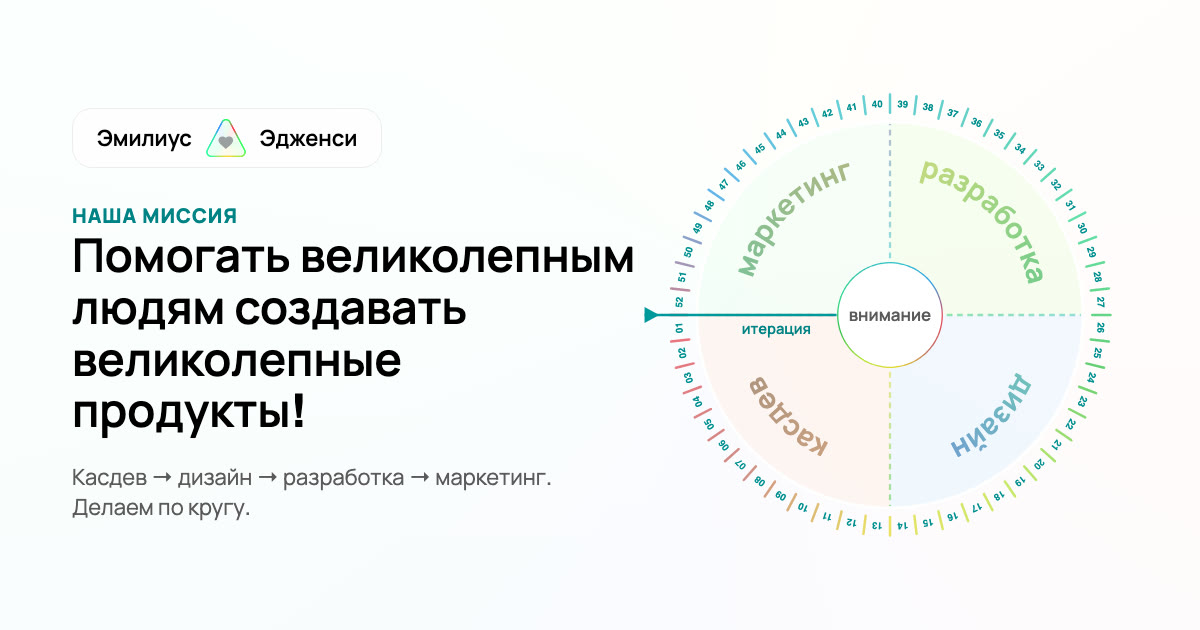
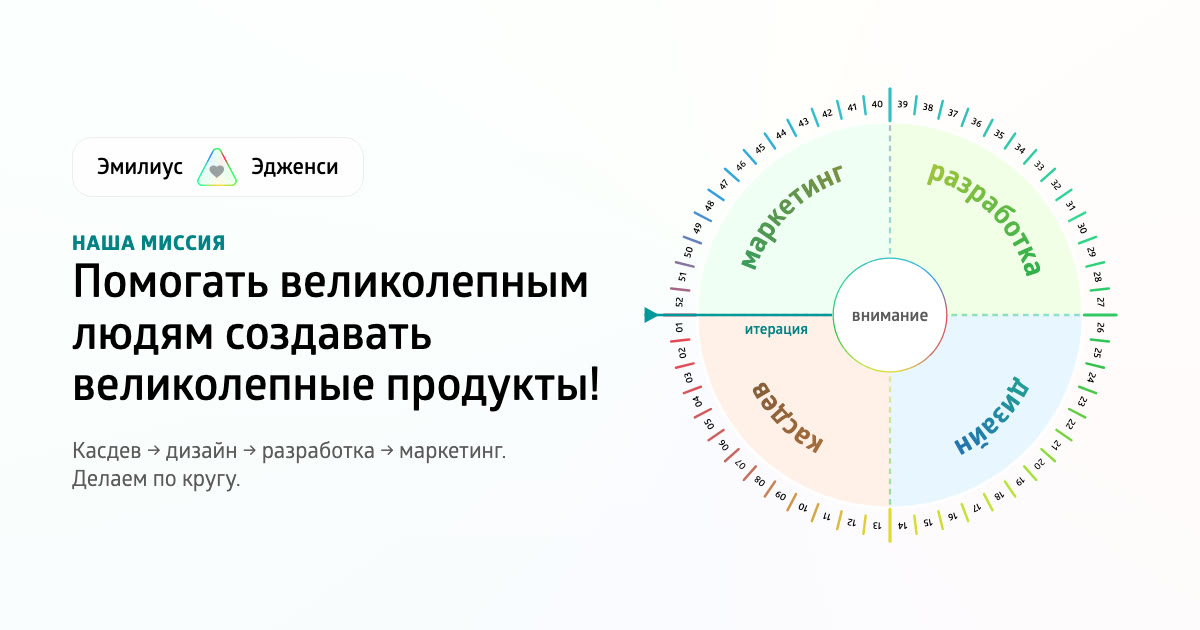
Шрифт Glober вместо Manrope
Четыре начертания (400/600/700/800) в woff2, урезаны до латиницы и кириллицы.
Картинка для соцсетей пересобрана на Glober.

diff --git a/src/styles/fonts.css b/src/styles/fonts.css
@@ -1,0 +1,35 @@
+/* Glober (Fontfabric) — лицензия у владельца. Четыре начертания, которые есть на сайте.
+   Файлы урезаны до латиницы, кириллицы и знаков препинания (~19 КБ каждый).
+   Исходные TTF в репозиторий не кладём. */
+
+@font-face {
+  font-family: 'Glober';
+  font-style: normal;
+  font-weight: 400;
+  font-display: swap;
+  src: url('./fonts/glober-400.woff2') format('woff2');
+}
+
+@font-face {
+  font-family: 'Glober';
+  font-style: normal;
+  font-weight: 600;
+  font-display: swap;
+  src: url('./fonts/glober-600.woff2') format('woff2');
+}
+
+@font-face {
+  font-family: 'Glober';
+  font-style: normal;
+  font-weight: 700;
+  font-display: swap;
+  src: url('./fonts/glober-700.woff2') format('woff2');
+}
+
+@font-face {
+  font-family: 'Glober';
+  font-style: normal;
+  font-weight: 800;
+  font-display: swap;
+  src: url('./fonts/glober-800.woff2') format('woff2');
+}

diff --git a/src/styles/tokens.css b/src/styles/tokens.css
@@ -55,8 +55,8 @@
   --radius-btn: 13px;
   --radius-sm: 10px;
 
-  /* Типографика: Glober, пока его нет — Manrope */
-  --font: 'Glober', 'Manrope', Arial, sans-serif;
+  /* Типографика: Glober (src/styles/fonts.css) */
+  --font: 'Glober', Arial, sans-serif;
 
   /* Сетка первого экрана */
   --col-side: 185px;

diff --git a/src/styles/global.css b/src/styles/global.css
@@ -1,7 +1,4 @@
-@import '@fontsource/manrope/400.css';
-@import '@fontsource/manrope/600.css';
-@import '@fontsource/manrope/700.css';
-@import '@fontsource/manrope/800.css';
+@import './fonts.css';
 @import './tokens.css';
 
 * {

diff --git a/docs/HANDOFF.md b/docs/HANDOFF.md
@@ -5,7 +5,7 @@
 ## С чего начать новую сессию
 
 1. Прочитать этот файл и `CLAUDE.md`.
-2. **Открыть пул-реквест `dev` → `main`** (в прошлой сессии начали, но прервали — PR ещё не создан). В описании перечислить всё из раздела «Что лежит в `dev`» ниже. Вливать — только после «да» владельца.
+2. Пул-реквест `dev` → `main` открыт: https://github.com/izobretatel88/emilius-site/pull/2. Вливать — только после «да» владельца.
 3. Спросить владельца, с чем продолжаем (список открытых вопросов — ниже).
 
 ## Где что
@@ -20,6 +20,7 @@
 | Старый сайт на Tilda (ещё живой) | https://emilius.agency |
 | Дизайн-система | `docs/EMILIUS-DESIGN-SYSTEM.md`, токены — `src/styles/tokens.css` |
 | Холст Pencil | `design/system.pen` |
+| Шрифт Glober | `src/styles/fonts/` (woff2, 400/600/700/800), подключение — `src/styles/fonts.css`. Исходные TTF у владельца (`Font Glober.zip`), в репозиторий не кладём |
 
 ## Как устроен деплой
 
@@ -61,6 +62,8 @@
    - «Добро пожаловать!» + объёмный знак + ладонь ✋ в радужном круге «Готовы? Дай пять!»;
    - нажатие в любом месте / Enter / пробел — хлопок, кольцо, звук удара сразу (без разгона), наклон знака с бликом, сайт;
    - Esc или прокрутка — пропуск без звука; один раз за визит (`sessionStorage`), при «уменьшить движение» не показывается.
+5. **Форма «Обратная связь» → Telegram** (`src/components/Feedback.astro`, `public/api/lead.php`). Работает только на Бегете; настройка бота — README.
+6. **Шрифт Glober** вместо Manrope (лицензия у владельца), `og.jpg` пересобрана.
 
 ## Открытые вопросы владельцу
 
@@ -69,7 +72,6 @@
 - Логотип Geekboards — взят их текущий чёрный вместо прежнего синего; подтвердить.
 - Форма обратной связи — сделана в `dev` (бот Telegram через `api/lead.php`). Осталось владельцу: создать бота, положить `emilius-telegram.php` на Бегет (README).
 - Переезд на Бегет и перенос домена.
-- Шрифт Glober: лицензия у владельца есть — ждём файлы шрифта, подключить вместо Manrope.
 - Виджет Эми (Millis) на localhost рисуется чёрным прямоугольником — проверить на живом превью.
 - Знак-молния для мелких размеров: пропорции остаются узкими; для favicon/аватарок — вариант на тёмном круге.
 

diff --git a/CHANGELOG.md b/CHANGELOG.md
@@ -20,6 +20,7 @@
 ### 25.09.2026
 
 - Форма «Обратная связь» внизу главной: сообщение и контакт уходят в Telegram через бота (`api/lead.php`, работает на Бегете). Если отправить не вышло — ссылка на Telegram, текст не теряется.
+- Сайт на фирменном шрифте Glober вместо Manrope: четыре начертания, ~19 КБ каждое. Картинка для соцсетей пересобрана.
 
 ### Дальше
 
@@ -27,5 +28,4 @@
 - Скриншоты в карточках кейсов.
 - Выверить тексты страниц этапов.
 - Решить вопрос контраста кнопок на фирменном бирюзовом.
-- Подключить Glober (лицензия есть, нужны файлы шрифта).
 - Перенос домена emilius.agency на Бегет.
